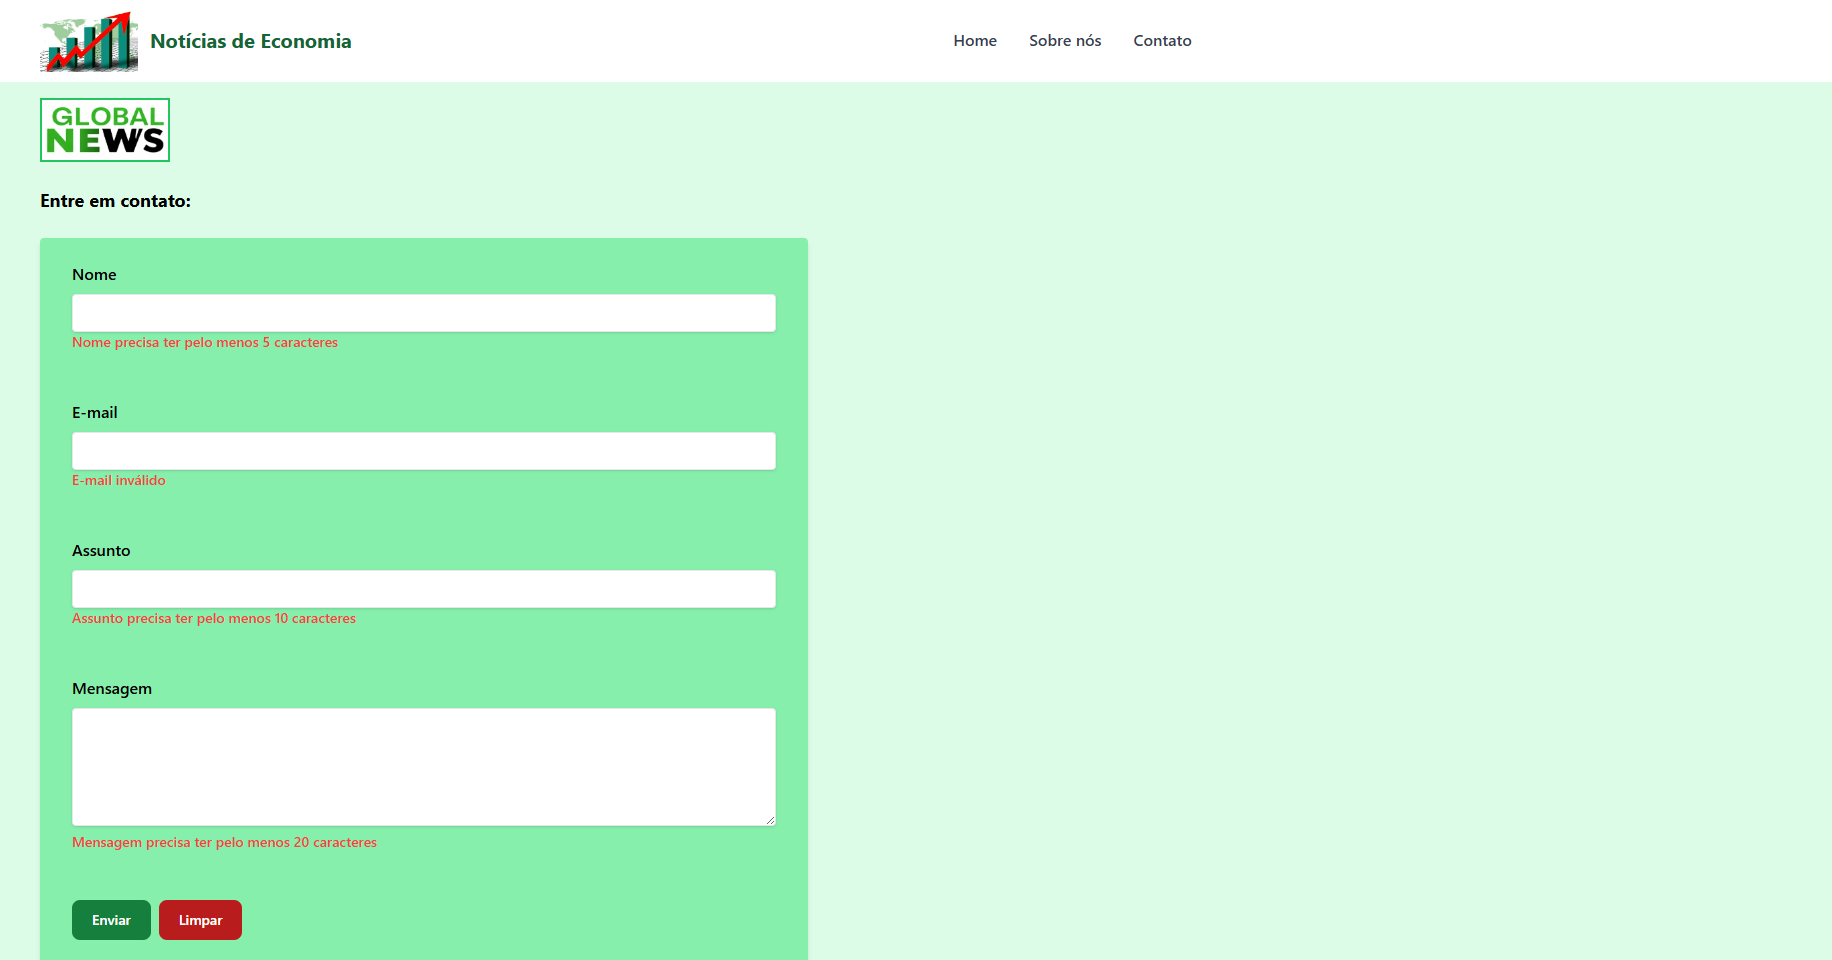
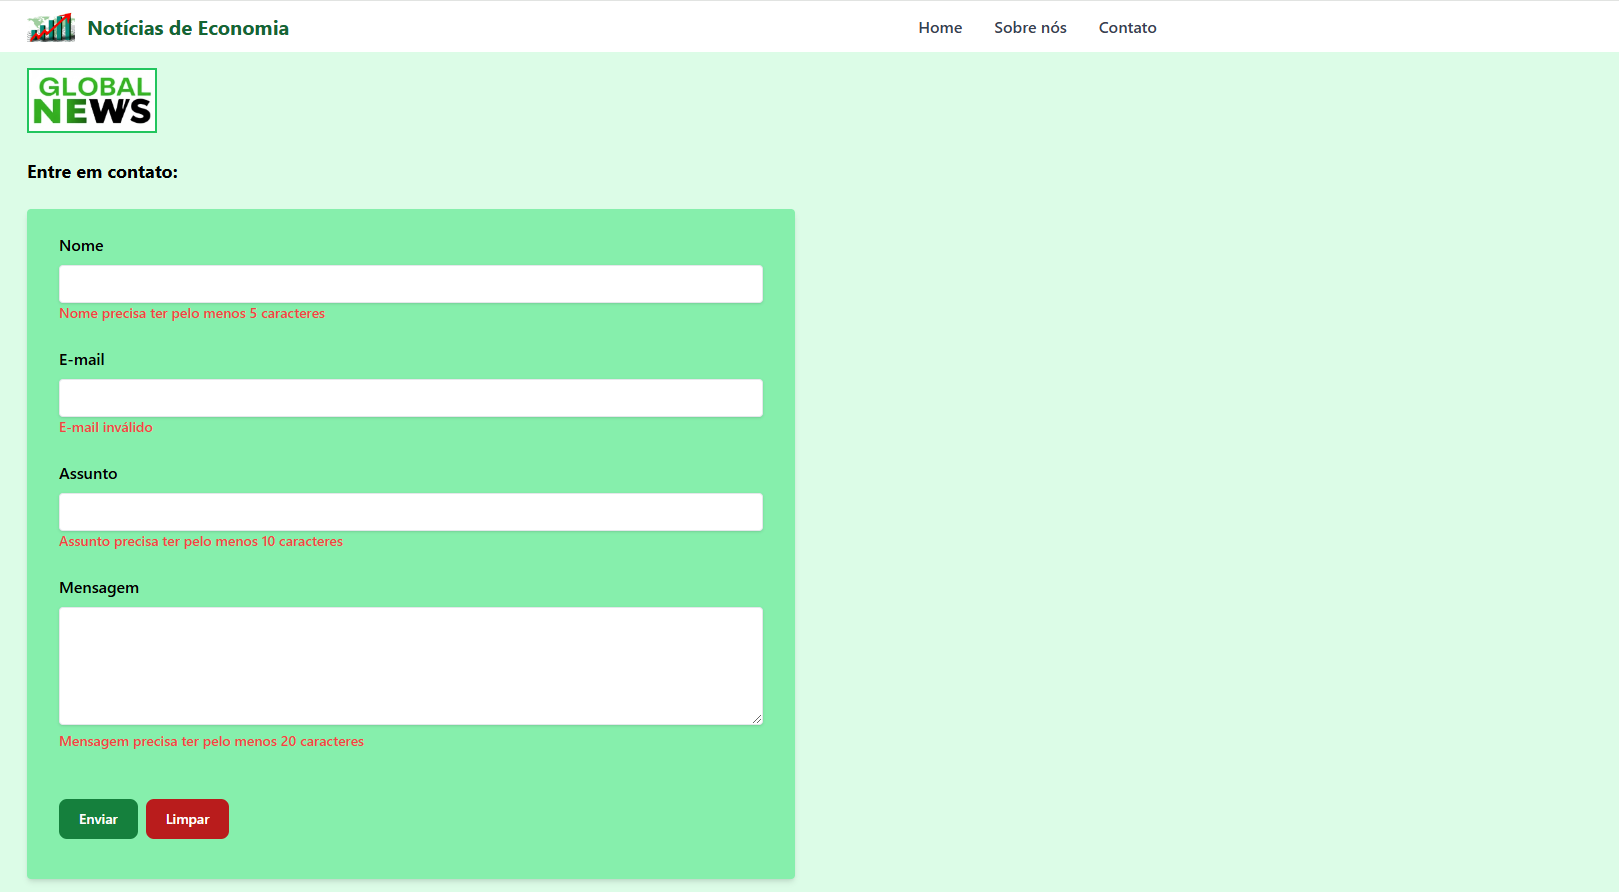
Alterada a imagem da tela de contato

Changed region(s): [[0.0, 0.0, 1.0, 1.0]]

diff --git a/src/components/formulario.js b/src/components/formulario.js
@@ -70,9 +70,9 @@ export default function Formulario(){
                         onChange={handleInputChange}
                         required
                         />
-                        {!validNome && <p className="text-red-500 text-sm">Nome precisa ter pelo menos 5 caracteres</p>}
+                        {!validNome && <div><p className="text-red-500 text-sm">Nome precisa ter pelo menos 5 caracteres</p></div>}
                     </label>
-                    <br/>
+                    {validNome && <br/>}
                     <br/>
                     <label className="font-semibold">
                         E-mail
@@ -85,7 +85,7 @@ export default function Formulario(){
                         />
                         {!validEmail && <p className="text-red-500 text-sm">E-mail inválido</p>}
                     </label>
-                    <br/>
+                    {validEmail && <br/>}
                     <br/>
                     <label className="font-semibold">
                         Assunto
@@ -98,7 +98,7 @@ export default function Formulario(){
                         />
                         {!validAssunto && <p className="text-red-500 text-sm">Assunto precisa ter pelo menos 10 caracteres</p>}
                     </label>
-                    <br/>
+                    {validAssunto && <br/>}
                     <br/>
                     <label className="font-semibold">
                         Mensagem
